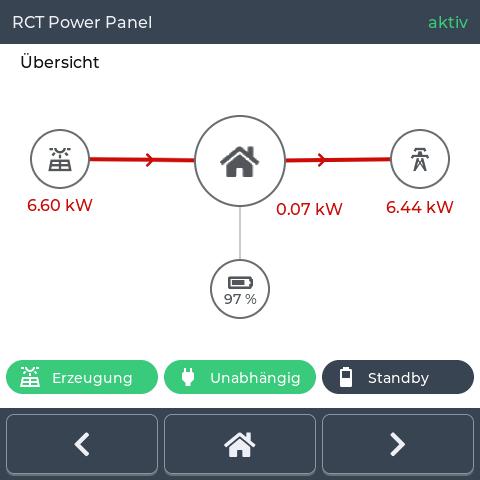
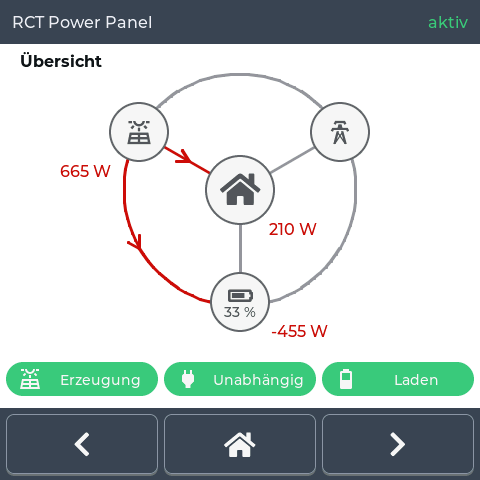
handbook: the light overview is the ring too
The picture beside the dark one in Bild 4, taken at 480 x 480 with themeHell set in
data/simulator.json - a way that exists because of the previous commit. It showed the
three nodes in a row around the house, with a grey Standby field and "6.60 kW" where the
values now stand as watts at their nodes.

Its alt text named no arrows and said "green, green and grey", and both described the
picture it replaced rather than the one above it. It now says what the two images show: a
white page, a black heading, and the values, the nodes and the three green fields keeping
their colours - which is what the switch does, and the values keep theirs in both themes.

diff --git a/docs/benutzerhandbuch.md b/docs/benutzerhandbuch.md
@@ -285,7 +285,7 @@ nicht als orange.
 
 <figure class="display-shot">
   <img src="../screenshots/screenshot-s1-d.png" alt="Übersicht im dunklen Theme: ein Ring aus drei Pfeilen mit je einem Knoten — Sonne links oben, Mast rechts oben, Akku unten — und in der Mitte das größere Haus; die Werte stehen an ihren Knoten, darunter drei grüne Felder mit Erzeugung, Unabhängig und Laden">
-  <img src="../screenshots/screenshot-s1-l.png" alt="Dieselbe Übersicht im hellen Theme: weißer Seitenhintergrund, schwarze Beschriftungen, die Felder unten bleiben grün, grün und grau">
+  <img src="../screenshots/screenshot-s1-l.png" alt="Dieselbe Übersicht im hellen Theme: weißer Seitenhintergrund, schwarze Überschrift; die roten Werte, die Knoten und die drei grünen Felder unten behalten ihre Farben">
   <figcaption>Bild 4: Die Übersicht, links im dunklen und rechts im hellen Theme. Der Wechsel betrifft nur den Seitenhintergrund und die Beschriftung darauf — die Felder unten und die Knoten behalten ihre Farben.</figcaption>
 </figure>
 
